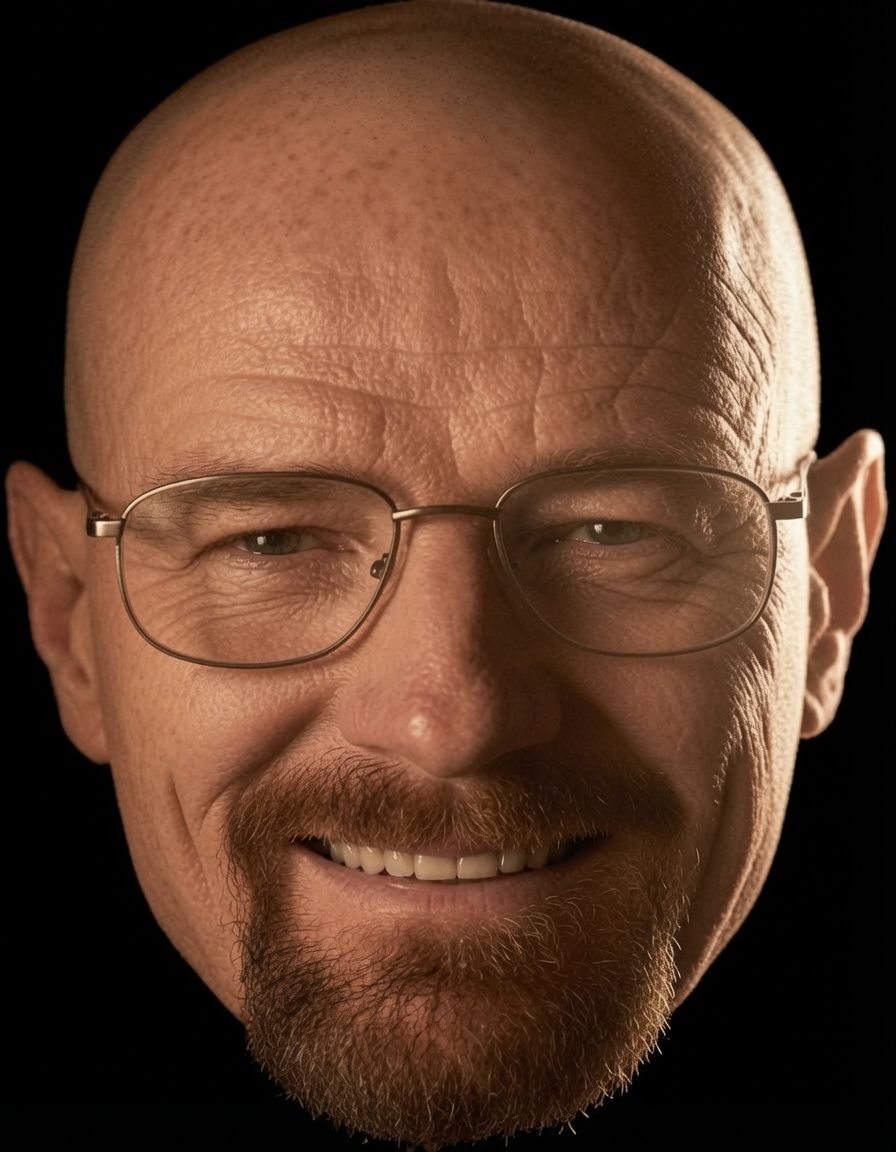
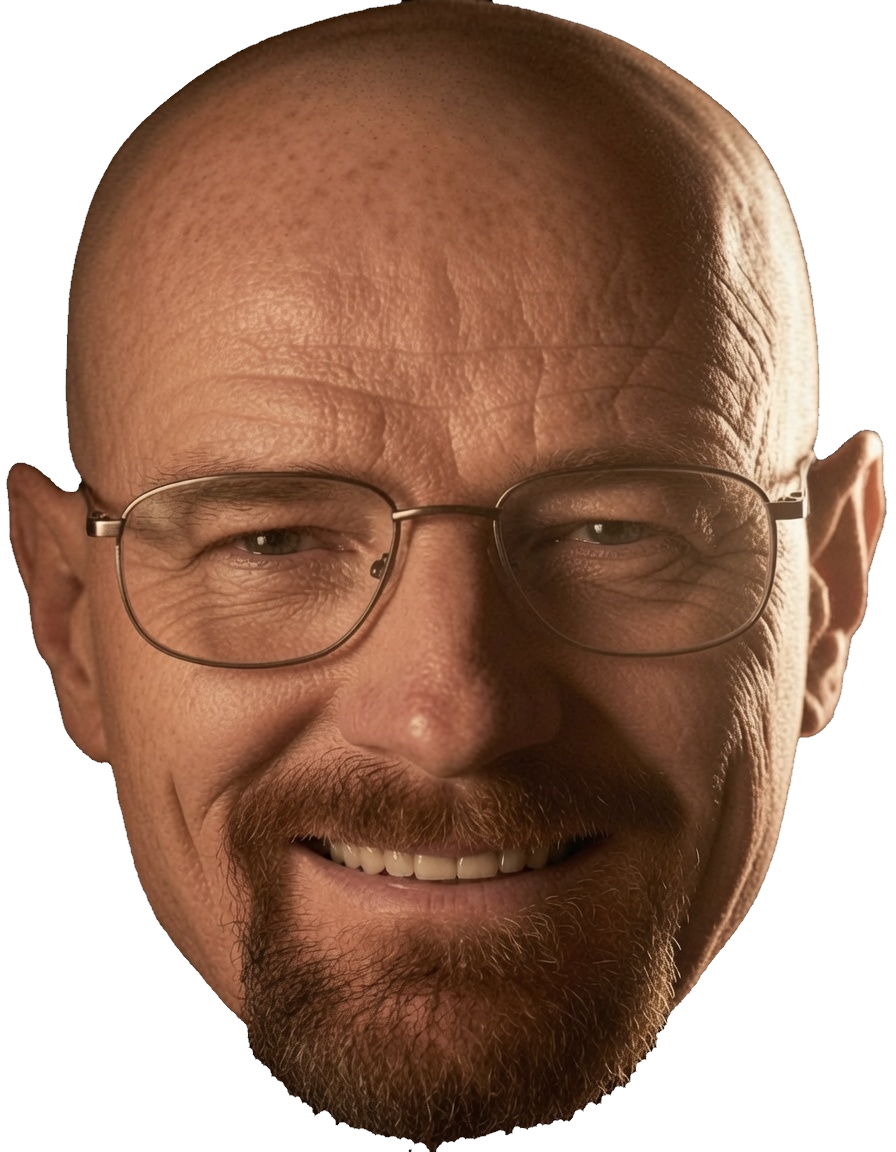
feat: debug para testar troca de rostos do Walter (clique/tecla F)
Clicar no Walter ou pressionar F alterna a expressao (normal -> feliz ->
triste) via GameState.DebugCycleFace. Expoe Renderer.WalterDest como
zona de clique e ponto unico de ajuste da imagem da cabeca.

Changed region(s): [[0.0, 0.0, 1.0, 1.0]]

diff --git a/project/Cozinha/Form1.cs b/project/Cozinha/Form1.cs
@@ -57,6 +57,14 @@ public partial class Form1 : Form
         if (e.Button != MouseButtons.Left) return;
         if (_state.Phase == GamePhase.WrongOrder) return;
 
+        // DEBUG: clicar no Walter alterna o rosto (normal -> feliz -> triste).
+        if (Renderer.WalterDest.Contains(e.Location) && e.Y < 385)
+        {
+            _state.DebugCycleFace();
+            Invalidate();
+            return;
+        }
+
         string? ingId = HitTester.HitIngredient(e.Location, _ingredients);
         if (ingId != null)
         {
@@ -87,6 +95,12 @@ public partial class Form1 : Form
         if (e.KeyCode == Keys.R)
         {
             _state.Reset();
+            Invalidate();
+        }
+        else if (e.KeyCode == Keys.F)
+        {
+            // DEBUG: tecla F também alterna o rosto do Walter.
+            _state.DebugCycleFace();
             Invalidate();
         }
     }

diff --git a/project/Cozinha/GameState.cs b/project/Cozinha/GameState.cs
@@ -87,6 +87,12 @@ public class GameState
         LastFeedbackMessage = "";
     }
 
+    // DEBUG: alterna a expressão (0 normal -> 1 feliz -> 2 triste -> 0) para testar os rostos.
+    public void DebugCycleFace()
+    {
+        WalterExpression = (WalterExpression + 1) % 3;
+    }
+
     private void CheckComplete()
     {
         if (CurrentStep == Recipe.Length)

diff --git a/project/Cozinha/Renderer.cs b/project/Cozinha/Renderer.cs
@@ -15,7 +15,8 @@ public static class Renderer
     static readonly Rectangle EstanteSrcRect = new(0, 375, 800, 50);
 
     // Walter: upper body visible on the right, lower half behind the mesa.
-    static readonly Rectangle WalterDest = new(480, 90, 360, 360);
+    // >>> AJUSTE A IMAGEM DA CABEÇA AQUI: posição (x, y) e tamanho (largura, altura). <<<
+    public static readonly Rectangle WalterDest = new(480, 90, 360, 360);
 
     // Table top surface y
     const int TableTop = 315;